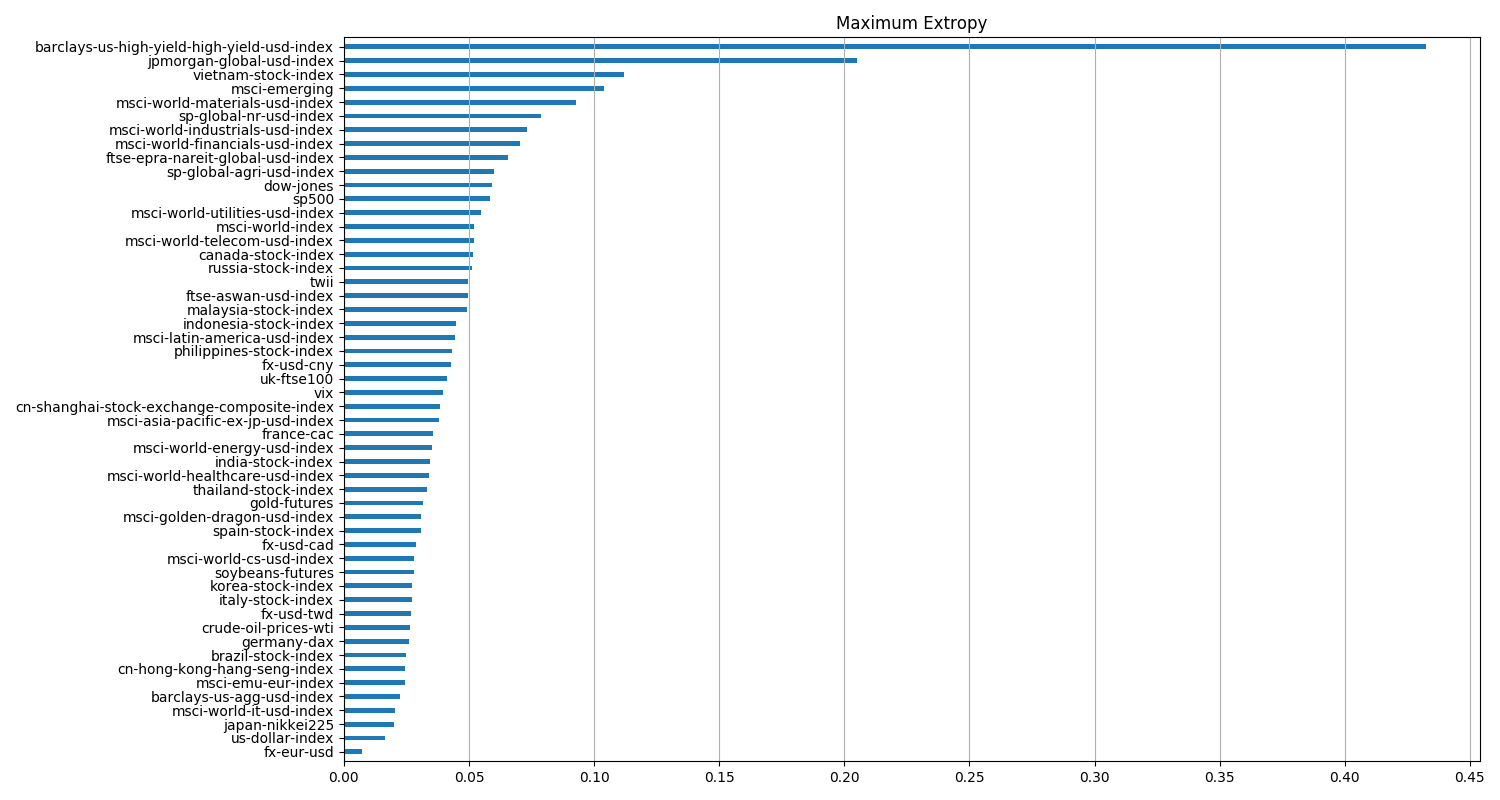
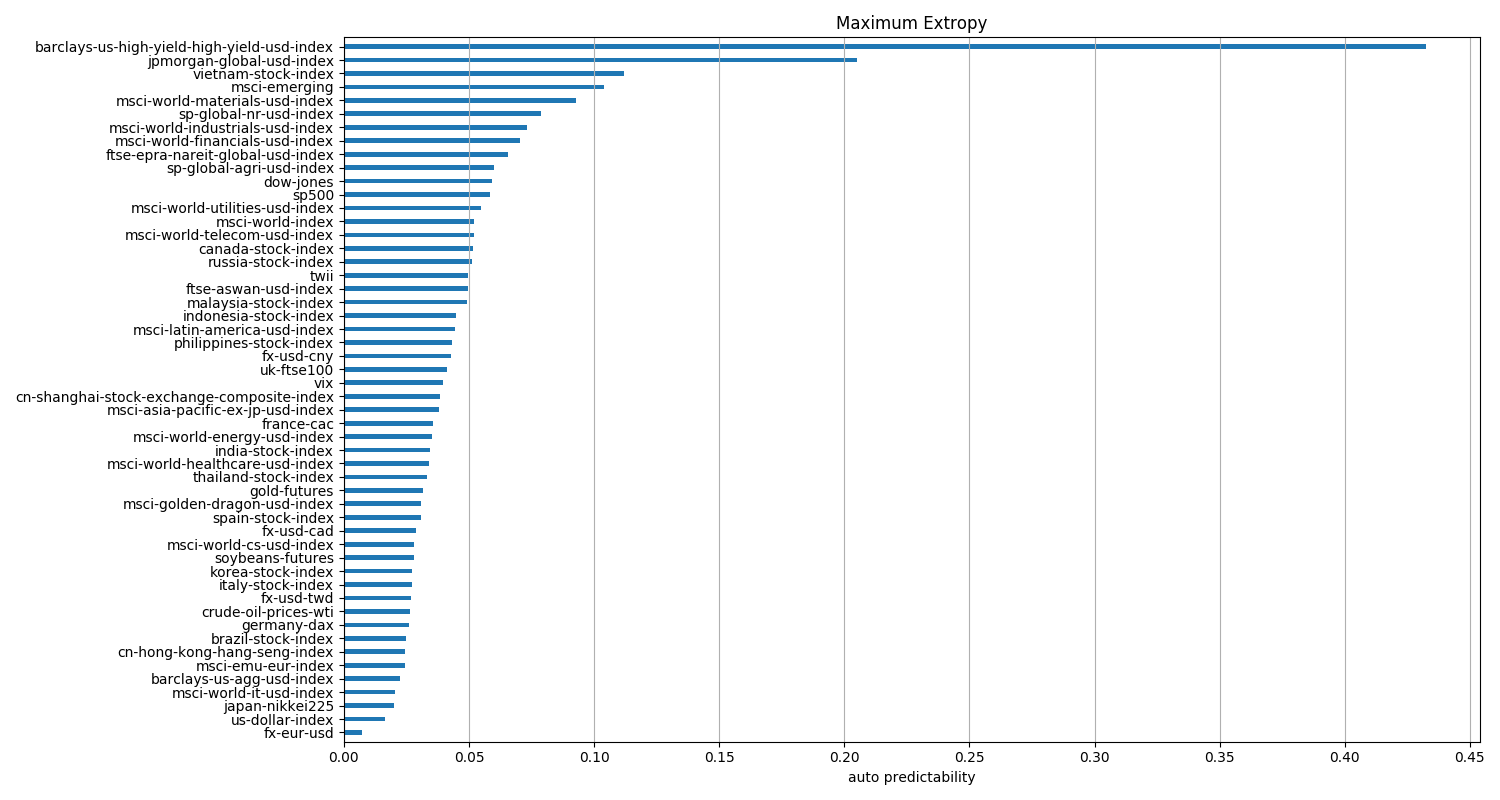
[BUGFIX] adding x-axis label

diff --git a/getIndicators.py b/getIndicators.py
@@ -58,7 +58,8 @@ for fileName in tqdm(fileList):
             'er': er,
         }, f, protocol=True)
     # with open(file_dst, 'rb') as f:
-    #     probMap[name] = pickle.load(f)['prob'] 
+        # probMap[name] = pickle.load(f)['prob'] 
+        # erMap[name] = np.nanmean(pickle.load(f)['er'])
 
 
 data = pd.DataFrame(probMap, index=['value']).sort_values(by=['value'], axis=1)
@@ -67,6 +68,7 @@ plt.barh(np.arange(len(data.columns)), data.values[0], 0.35)
 plt.yticks(np.arange(len(data.columns)), data.columns.values)
 plt.xticks(np.arange(0, 1, 0.05))
 plt.title('Maximum Extropy')
+plt.xlabel('auto predictability')
 plt.grid(axis='x')
 plt.margins(y=0.01)
 plt.autoscale()
@@ -80,6 +82,7 @@ plt.barh(np.arange(len(data.columns)), data.values[0], 0.35)
 plt.yticks(np.arange(len(data.columns)), data.columns.values)
 plt.xticks(np.arange(0, 1, 0.05))
 plt.title('Efficiency Ratio')
+plt.xlabel('efficiency ratio')
 plt.grid(axis='x')
 plt.margins(y=0.01)
 plt.autoscale()
